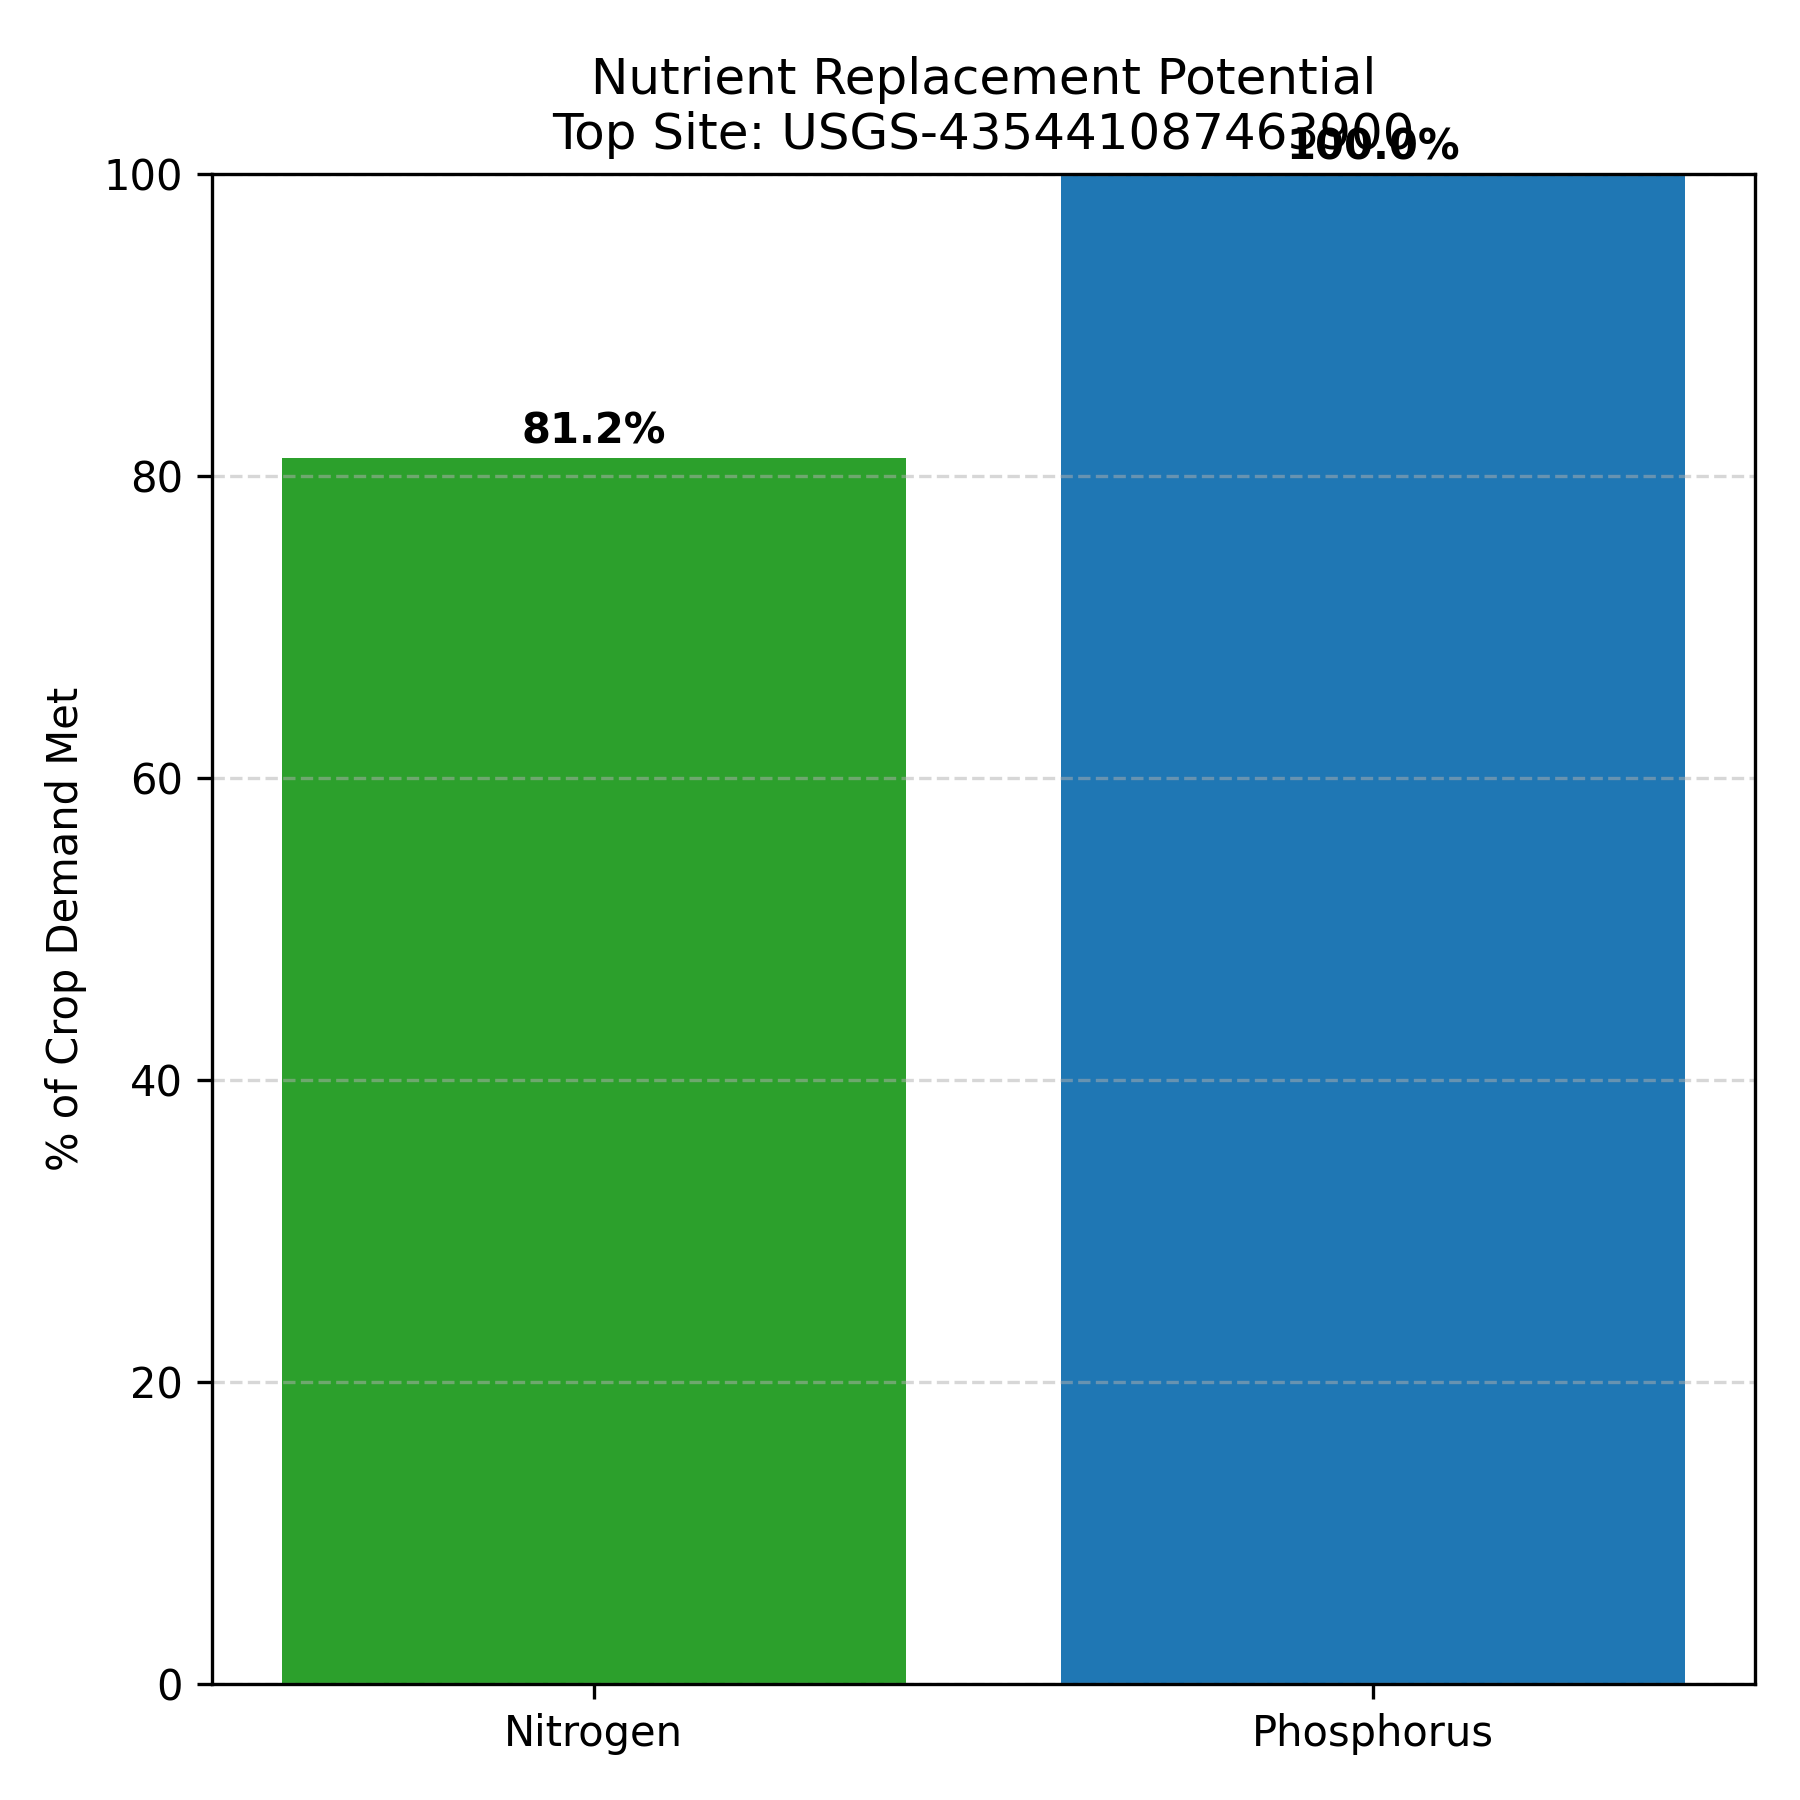
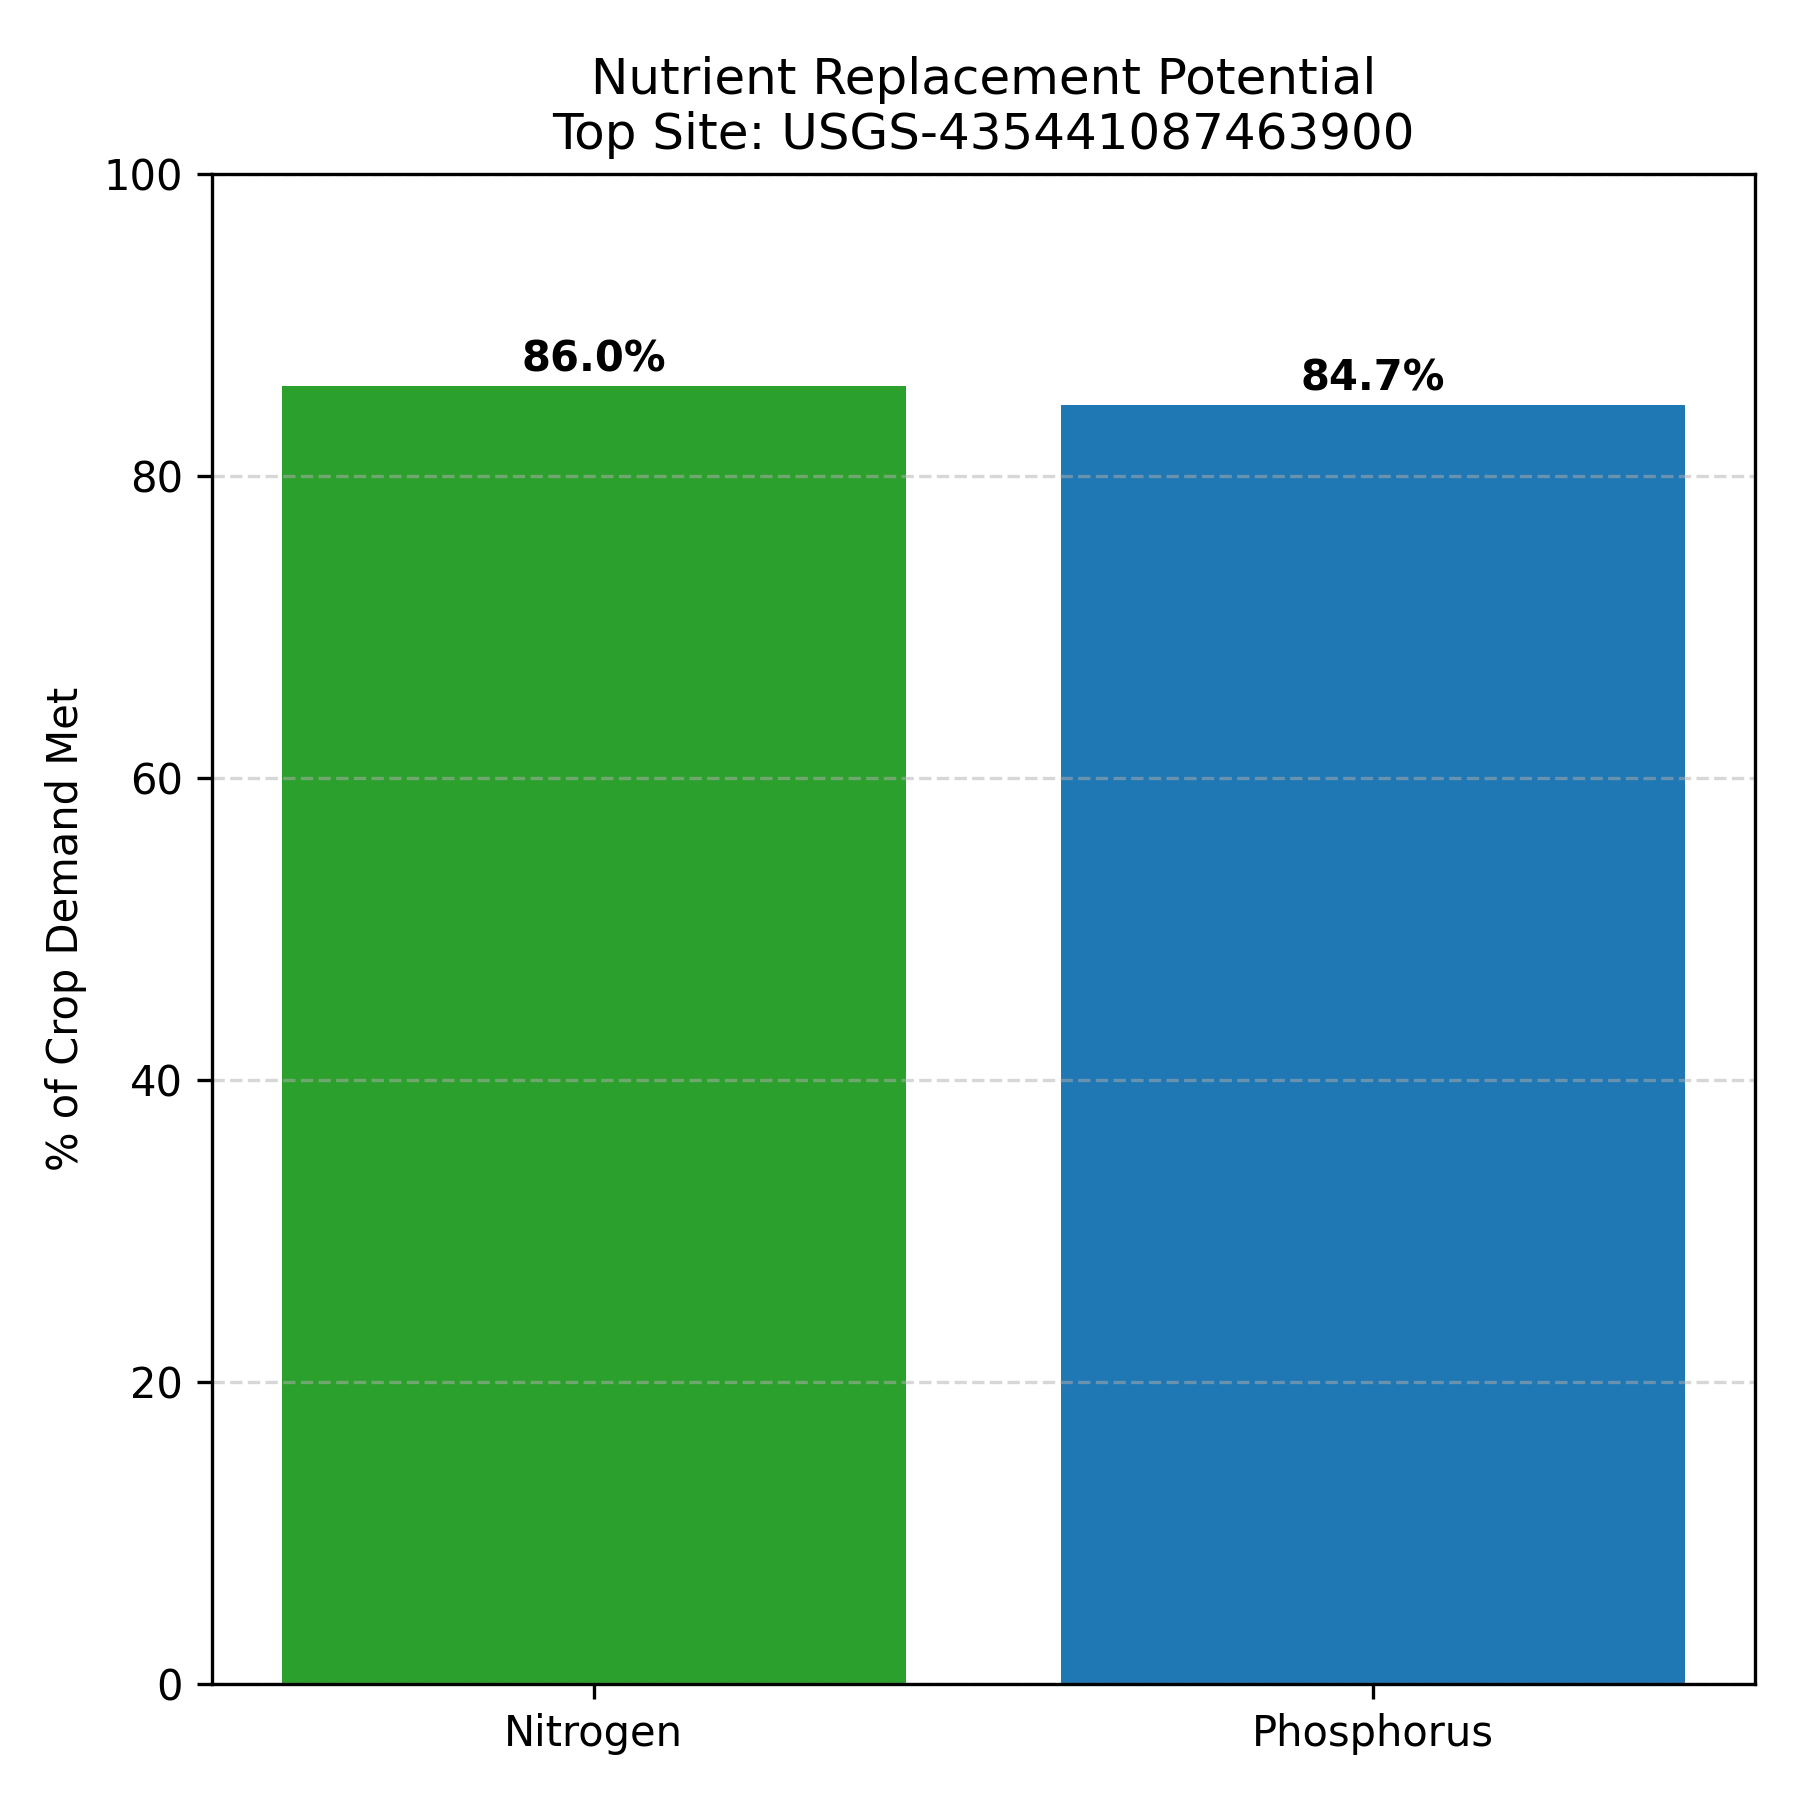
update factors in site specific analysis

Changed region(s): [[0.5911, 0.0622, 0.9333, 0.2489], [0.1556, 0.1867, 0.5289, 0.28]]

diff --git a/Site_Specific_Analysis.py b/Site_Specific_Analysis.py
@@ -83,8 +83,8 @@ PRICE_N = 1.89
 PRICE_P = 5.37          
 FERT_N_NEED = 150       
 FERT_P_NEED = 22        
-AVAIL_N = 0.4
-AVAIL_P = 0.8
+AVAIL_N = 0.8 * 0.5
+AVAIL_P = 0.8 * 0.8
 
 # Step A: Effective P content
 site_stats["Effective_P_content"] = (site_stats["Grade_P_g_kg"] / 1000) * AVAIL_P
